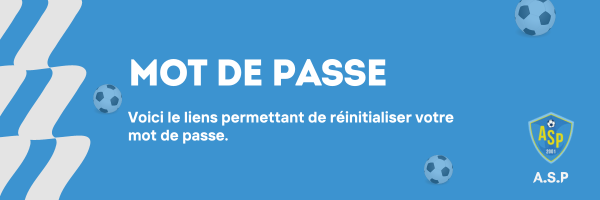
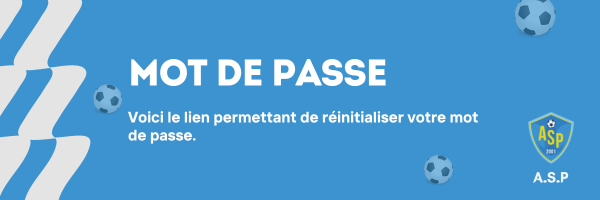
reset password

Changed region(s): [[0.33, 0.54, 0.81, 0.63], [0.21, 0.66, 0.39, 0.72]]

diff --git a/apps/emails/src/assets/js/emailList.js b/apps/emails/src/assets/js/emailList.js
@@ -6,9 +6,9 @@ export const emailList = [
   },
   {
     name: "Mot de passe oublié",
-    subject: "Liens réinitialisation de votre mot de passe",
+    subject: "Lien réinitialisation de votre mot de passe",
     template: "mot-de-passe-oublie",
-  }
+  },
 ];
 
 export function createEmailTable(emails) {

diff --git a/apps/backend/app/controllers/reset_password_controller.ts b/apps/backend/app/controllers/reset_password_controller.ts
@@ -26,7 +26,7 @@ export default class ResetPasswordController {
 
     sendEmail(
       'mot-de-passe-oublie',
-      'Voici votre liens de réinitialisation de mot de passe.',
+      'Voici votre lien de réinitialisation de mot de passe.',
       [user.email],
       [{ key: 'link', value: url }]
     )
